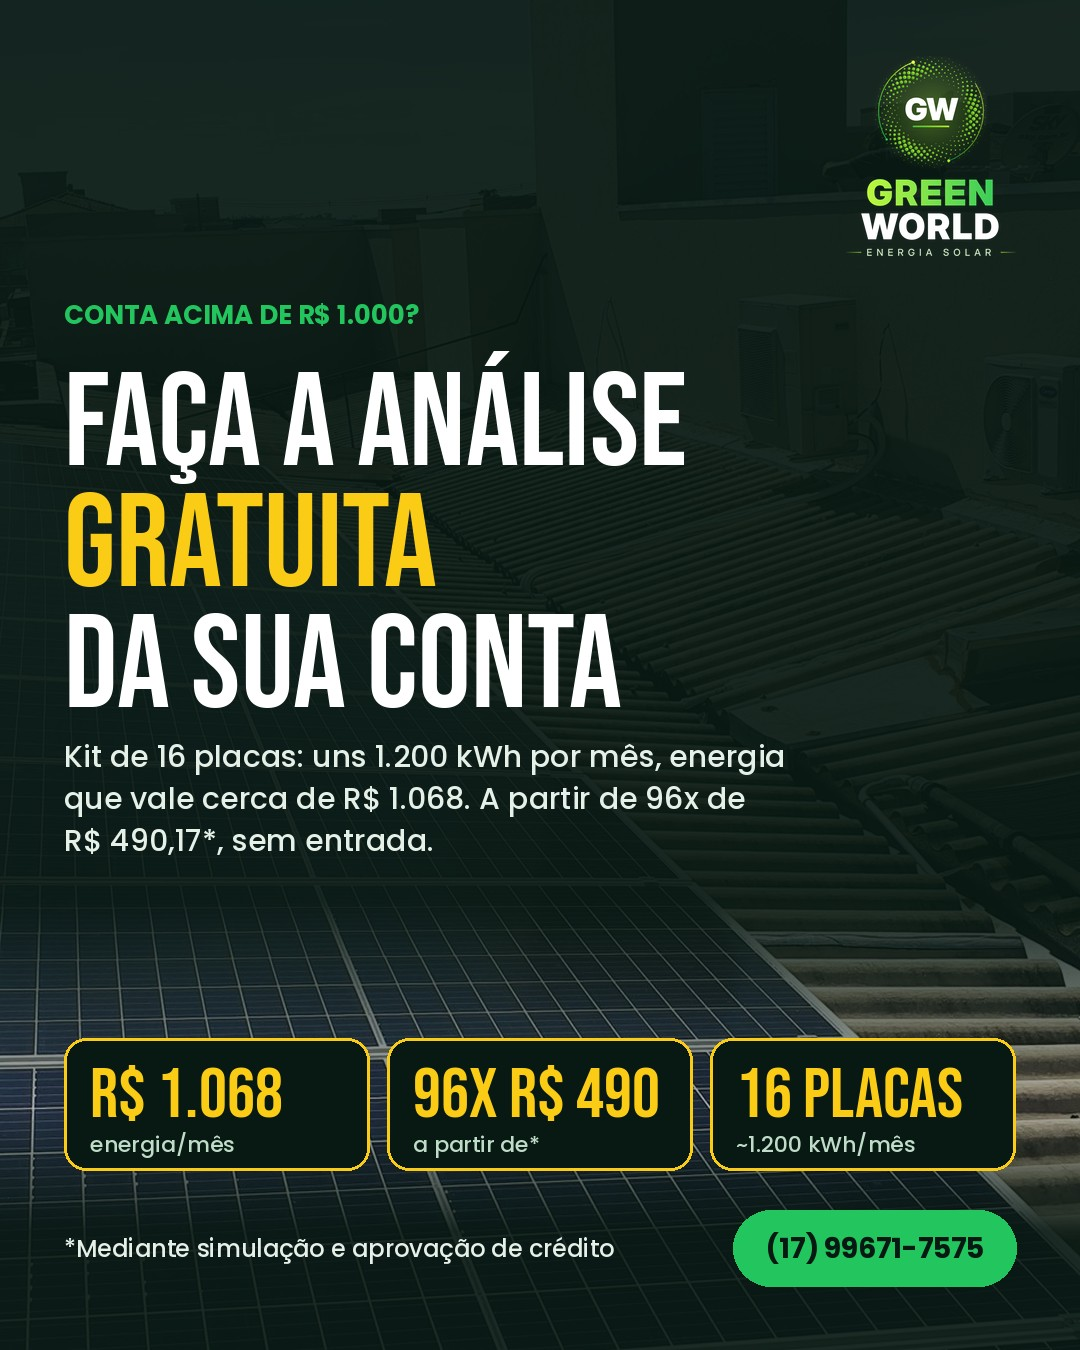
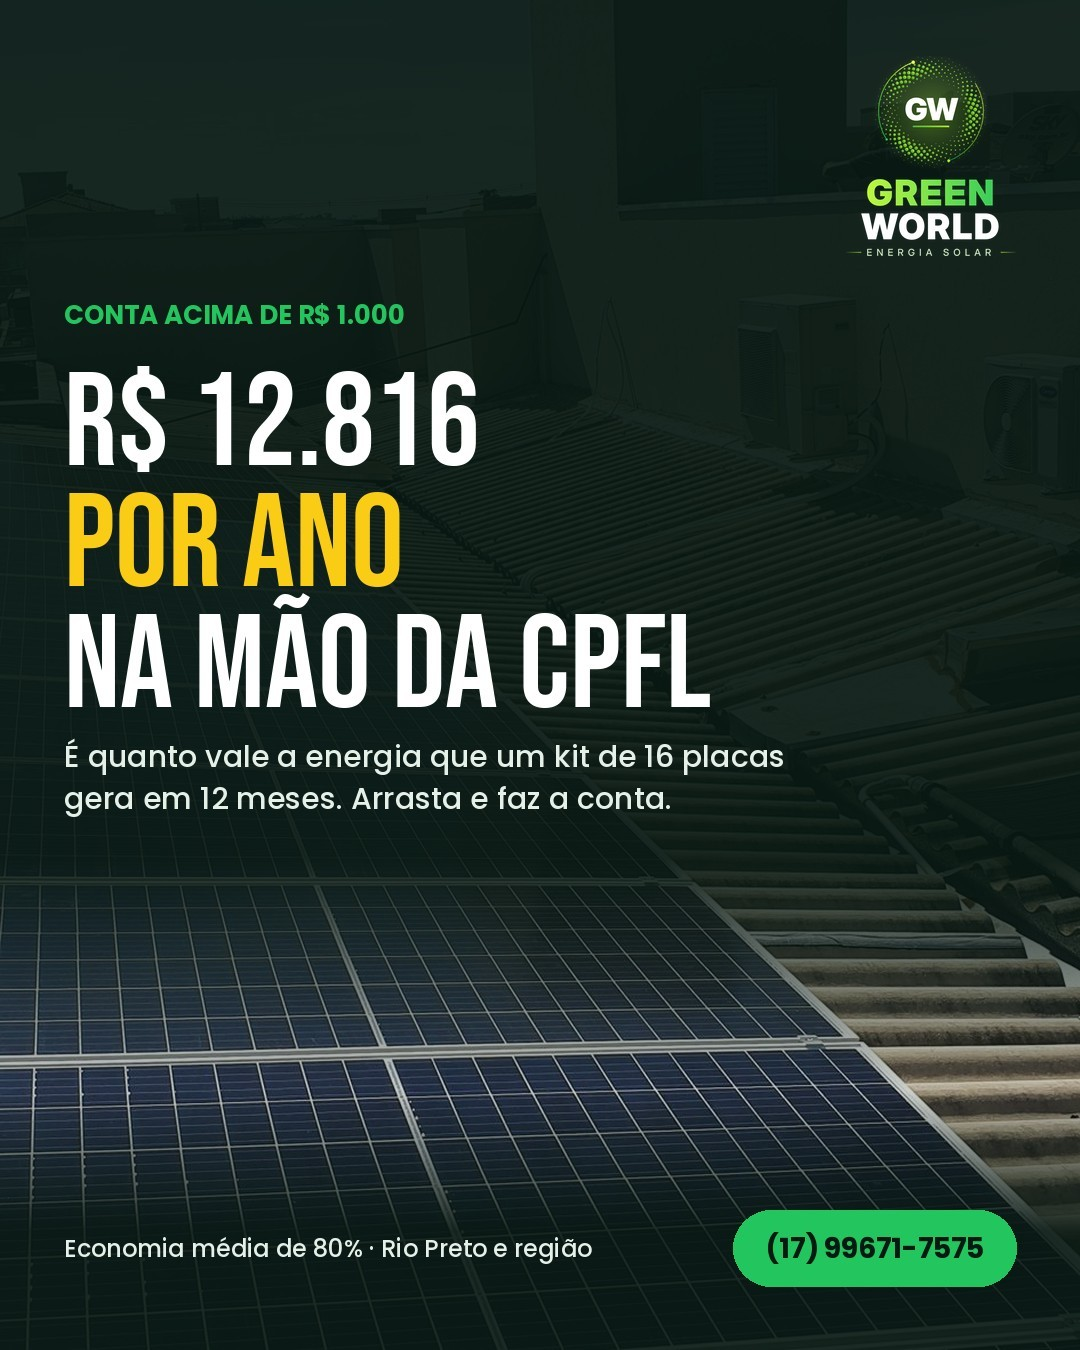
Semana 26/11-02/12 redesenhada com as skills (3 carrosséis, novos ganchos)
Claude-Session: https://claude.ai/code/session_01D5ZQK6a8hcQQRchwaRhvb5

Changed region(s): [[0.0611, 0.2178, 0.7333, 0.6533], [0.0, 0.6533, 1.0, 0.8711], [0.0611, 0.9022, 0.5806, 0.9333]]

diff --git a/carrossel.py b/carrossel.py
@@ -1,0 +1,69 @@
+"""Carrossel GW (Instagram, 1080x1350): capa com foto (arte.py) + slides internos no mesmo molde.
+Uso: python3 carrossel.py spec.json pasta_saida
+spec: {"capa": {...spec do arte.py...}, "slides": [{"num":"01","titulo":"linha\\n*destaque*","texto":"...","stats":[[v,k],...]}], "fim": {"titulo":"...","texto":"..."}}
+"""
+import sys, json, os
+from PIL import Image, ImageDraw
+sys.path.insert(0, os.path.dirname(os.path.abspath(__file__)))
+import arte
+W, H = 1080, 1350
+DARK, GREEN, YELLOW, SOFT, MUTED = arte.DARK, arte.GREEN, arte.YELLOW, arte.SOFT, arte.MUTED
+def base(i, n):
+    im = Image.new('RGB', (W, H), DARK); d = ImageDraw.Draw(im)
+    for y in range(H):  # leve degradê
+        t = y / H; d.line([(0, y), (W, y)], fill=(int(8 + 6 * t), int(24 + 14 * t), int(18 + 8 * t)))
+    lg = arte.LOGO.resize((130, int(arte.LOGO.height * 130 / arte.LOGO.width)))
+    im.paste(lg, (W - 64 - 130, 56), lg)
+    # barra de progresso
+    seg = (W - 128 - 160) / n
+    for k in range(n):
+        x0 = 64 + k * seg
+        d.rounded_rectangle([x0 + 4, 70, x0 + seg - 4, 80], radius=5, fill=YELLOW if k == i else (40, 70, 55))
+    return im, d
+def titulo(d, txt, y, size=120, maxw=W - 128):
+    for l in [l for l in txt.split('\n') if l.strip()]:
+        hl = l.startswith('*'); t = l.strip('*').upper(); f = arte.bebas(size)
+        while d.textlength(t, font=f) > maxw and f.size > 60: f = arte.bebas(f.size - 4)
+        d.text((64, y), t, font=f, fill=YELLOW if hl else (255, 255, 255)); y += int(f.size * 0.95)
+    return y
+def texto(d, txt, y, size=40):
+    f = arte.poppins('Medium', size)
+    for par in txt.split('\n'):
+        for l in arte.wrap(d, par, f, W - 140):
+            d.text((64, y), l, font=f, fill=SOFT); y += int(size * 1.45)
+        y += 14
+    return y
+def rodape(d, txt='Arrasta para o lado  >>'):
+    fp = arte.poppins('Bold', 28); pw = d.textlength(arte.WHATS, font=fp) + 64
+    d.rounded_rectangle([W - 64 - pw, H - 140, W - 64, H - 64], radius=38, fill=GREEN)
+    d.text((W - 64 - pw / 2, H - 102), arte.WHATS, font=fp, fill=DARK, anchor='mm')
+    d.text((64, H - 102), txt, font=arte.poppins('Medium', 26), fill=MUTED, anchor='lm')
+def render(spec, out):
+    os.makedirs(out, exist_ok=True)
+    arte.render(spec['capa'], W, H, f'{out}/slide01.jpg')
+    arte.render(spec['capa'], 1080, 1920, f'{out}/arte_story.jpg')
+    slides = spec['slides']; n = len(slides) + 2
+    for i, s in enumerate(slides, start=1):
+        im, d = base(i, n); y = 200
+        if s.get('num'): d.text((64, y), s['num'], font=arte.bebas(200), fill=(34, 90, 60)); y += 190
+        y = titulo(d, s['titulo'], y) + 30
+        if s.get('texto'): y = texto(d, s['texto'], y)
+        if s.get('stats'):
+            sts = s['stats']; g = 18; bw = (W - 128 - (len(sts) - 1) * g) // len(sts); sy = max(y + 20, H - 360)
+            for k, (v, lab) in enumerate(sts):
+                x = 64 + k * (bw + g); d.rounded_rectangle([x, sy, x + bw, sy + 140], radius=22, fill=DARK, outline=YELLOW, width=3)
+                fv = arte.bebas(72)
+                while d.textlength(v, font=fv) > bw - 40: fv = arte.bebas(fv.size - 4)
+                d.text((x + 24, sy + 16), v, font=fv, fill=YELLOW); d.text((x + 24, sy + 96), lab, font=arte.poppins('Medium', 22), fill=MUTED)
+        if s.get('nota'): d.text((64, H - 190), s['nota'], font=arte.poppins('Medium', 22), fill=MUTED)
+        rodape(d); im.save(f'{out}/slide{i+1:02d}.jpg', quality=90)
+    im, d = base(n - 1, n); f = spec['fim']
+    y = titulo(d, f['titulo'], 330, 140) + 40
+    y = texto(d, f['texto'], y, 42)
+    d.rounded_rectangle([64, y + 30, W - 64, y + 160], radius=65, fill=GREEN)
+    d.text((W / 2, y + 95), 'WhatsApp ' + arte.WHATS, font=arte.poppins('Bold', 46), fill=DARK, anchor='mm')
+    rodape(d, 'Economia média de 80% · Rio Preto e região'); im.save(f'{out}/slide{n:02d}.jpg', quality=90)
+    # arte_feed = capa (usada no Facebook)
+    Image.open(f'{out}/slide01.jpg').save(f'{out}/arte_feed.jpg', quality=90)
+if __name__ == '__main__':
+    render(json.load(open(sys.argv[1])), sys.argv[2])

diff --git a/INSTRUCOES.md b/INSTRUCOES.md
@@ -107,3 +107,6 @@ Pasta `social-media-skills/` (MIT, github.com/charlie947/social-media-skills, ve
 
 ## Frontend Design (25/11/2026)
 Skill oficial da Anthropic, já disponível nas sessões do Claude e copiada em `frontend-design/` para referência. Usar ao criar página de captação/landing page, site da GW ou artes em HTML: direção visual intencional, tipografia e layout sem cara de modelo pronto. Manter a identidade da GW (verde-escuro, verde-limão/verde #22C55E, amarelo #FACC15, Bebas Neue + Poppins).
+
+## Carrossel (25/11/2026)
+Posts com `"formato": "carrossel"` em posts.json: gerar com `python3 carrossel.py posts/DATA/carrossel.json posts/DATA` (capa no estilo arte.py + slides no mesmo molde + slide final com WhatsApp). Publicar no Instagram com `create_carousel_post` (image_urls = slides em ordem, raw.githubusercontent), story com arte_story.jpg (capa) e no Facebook só a capa (arte_feed.jpg) com a mesma legenda. Legendas sem "emoji como marcador" e sem travessão longo (regras anti-IA da skill social).
